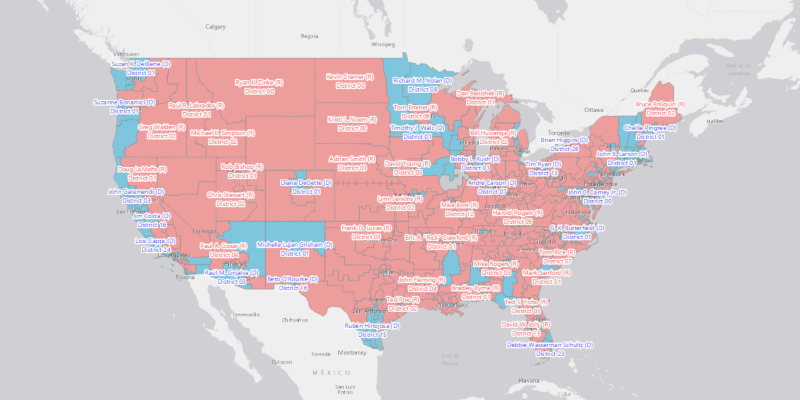
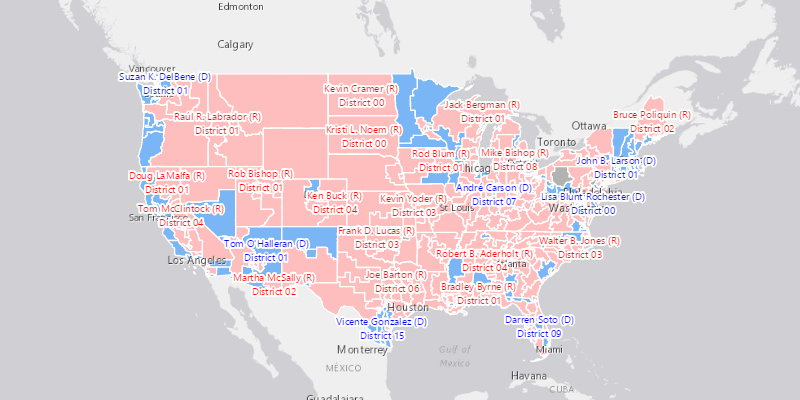
change service

diff --git a/src/main/java/com/esri/samples/displayinformation/show_labels_on_layer/ShowLabelsOnLayerSample.java b/src/main/java/com/esri/samples/displayinformation/show_labels_on_layer/ShowLabelsOnLayerSample.java
@@ -64,7 +64,7 @@ public class ShowLabelsOnLayerSample extends Application {
       mapView.setViewpointCenterAsync(new Point(-10846309.950860, 4683272.219411, SpatialReferences.getWebMercator()), 20000000);
 
       // create a feature layer from an online feature service of US Congressional Districts
-      String serviceUrl = "https://services.arcgis.com/P3ePLMYs2RVChkJx/arcgis/rest/services/USA_Congressional_Districts_analysis/FeatureServer/0";
+      String serviceUrl = "https://services.arcgis.com/P3ePLMYs2RVChkJx/arcgis/rest/services/USA_115th_Congressional_Districts/FeatureServer/0";
       ServiceFeatureTable serviceFeatureTable = new ServiceFeatureTable(serviceUrl);
       FeatureLayer featureLayer = new FeatureLayer(serviceFeatureTable);
       map.getOperationalLayers().add(featureLayer);
